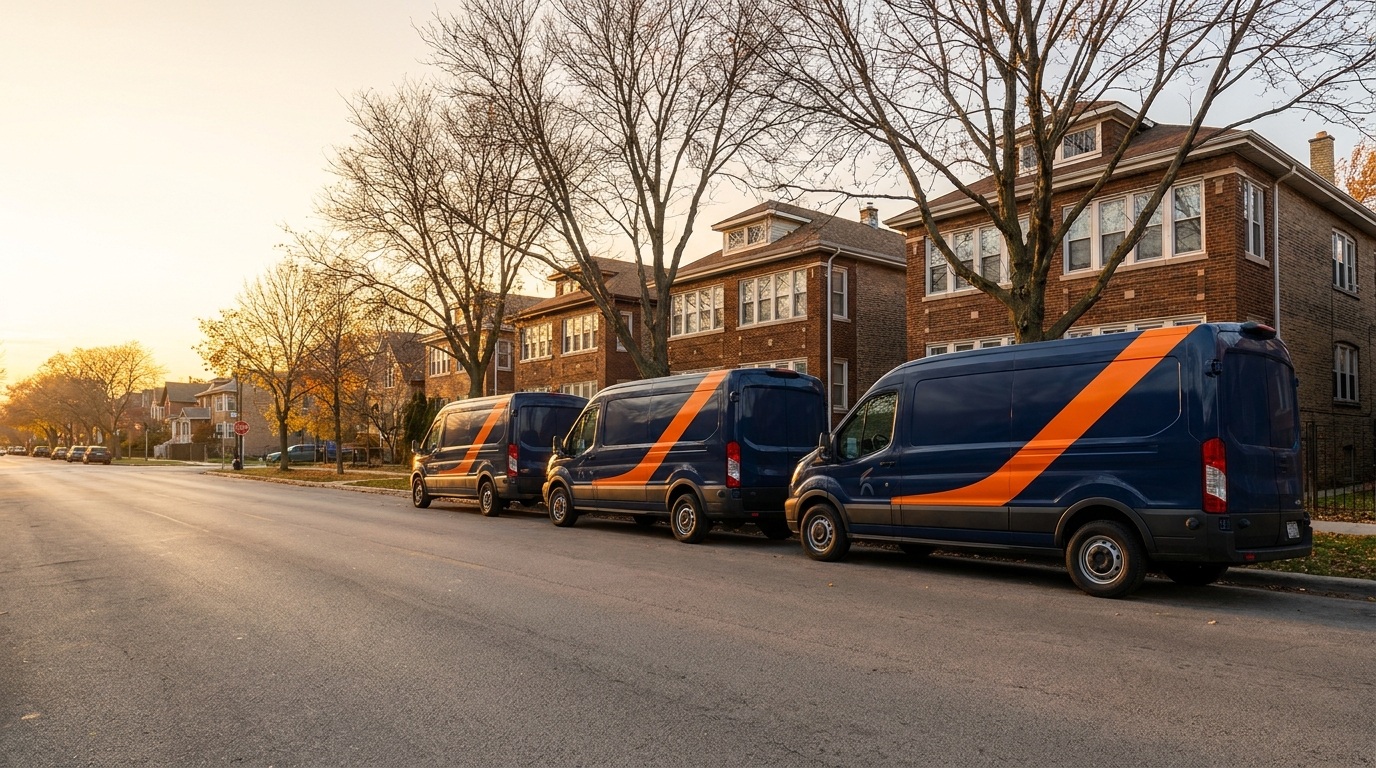
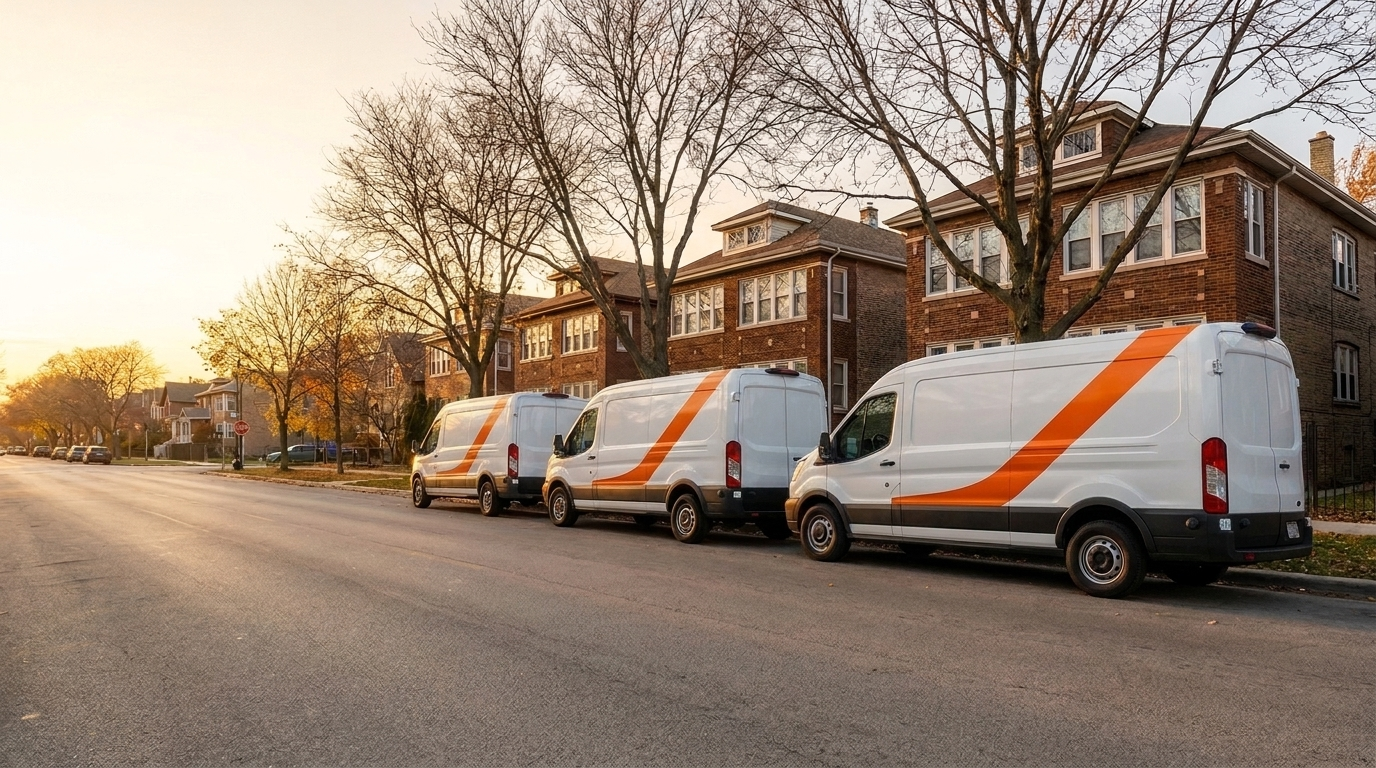
DEV AGENT: dry-bros-water-fire-restoration — van wrap concepts on white vans
Client feedback (Amin, 2026-09-08): "We want this on white vans." Regenerated
all three van-wrap concepts with clean white van bodies, keeping each concept's
orange accent graphic, the three-van fleet, and the original street scenes and
lighting unchanged (edit-via-reference; no wordmark, so no text risk). Updated
the concepts served at /van-wrap-concepts/ and recorded the white-body livery
direction in the style guide CLIENT DIRECTION block.

diff --git a/clients/dry-bros-water-fire-restoration/image-style-guide.md b/clients/dry-bros-water-fire-restoration/image-style-guide.md
@@ -6,14 +6,20 @@
    2026-09-08 call Amin asked us to design AI van wrap concepts for the homepage
    hero and send them for his approval. Three concepts were generated and shared
    for review (`clients/dry-bros-water-fire-restoration/concepts/van-wrap-concept-1..3.png`,
-   served at `/van-wrap-concepts/` on staging). Until Amin picks one, DO NOT install
-   `public/images/hero-bg.webp` or overwrite these concepts — the direction is not
-   final. When he chooses, finalize that concept (add his real logo when we have it)
-   and set it as the hero.
-2. **Fleet livery direction (concept, unconfirmed):** deep-navy body (`#0d1b3e`) with
-   an orange (`#f97316`) accent graphic; a matched fleet of three vans per the standing
-   fleet-of-three rule. No client logo file on hand yet, so concepts carry NO wordmark —
-   the wrap graphic is a shape only. Add the real logo mark once received.
+   served at `/van-wrap-concepts/` on staging). **REVISED 2026-09-08 (Amin
+   feedback, "We want this on white vans"):** all three concepts were
+   regenerated with WHITE van bodies (orange accent graphic unchanged) and
+   re-shared at the same URL. Until Amin picks one, DO NOT install
+   `public/images/hero-bg.webp` or overwrite these concepts further — the
+   direction is not final. When he chooses, finalize that concept (add his real
+   logo when we have it) and set it as the hero.
+2. **Fleet livery direction (concept, unconfirmed): WHITE body** — Amin
+   2026-09-08: "We want this on white vans." Clean glossy white van body with an
+   orange (`#f97316`) accent graphic; a matched fleet of three vans per the
+   standing fleet-of-three rule. (Superseded the earlier deep-navy `#0d1b3e`
+   body concept.) No client logo file on hand yet, so concepts carry NO
+   wordmark — the wrap graphic is a shape only. Add the real logo mark once
+   received.
 
 ---
 
